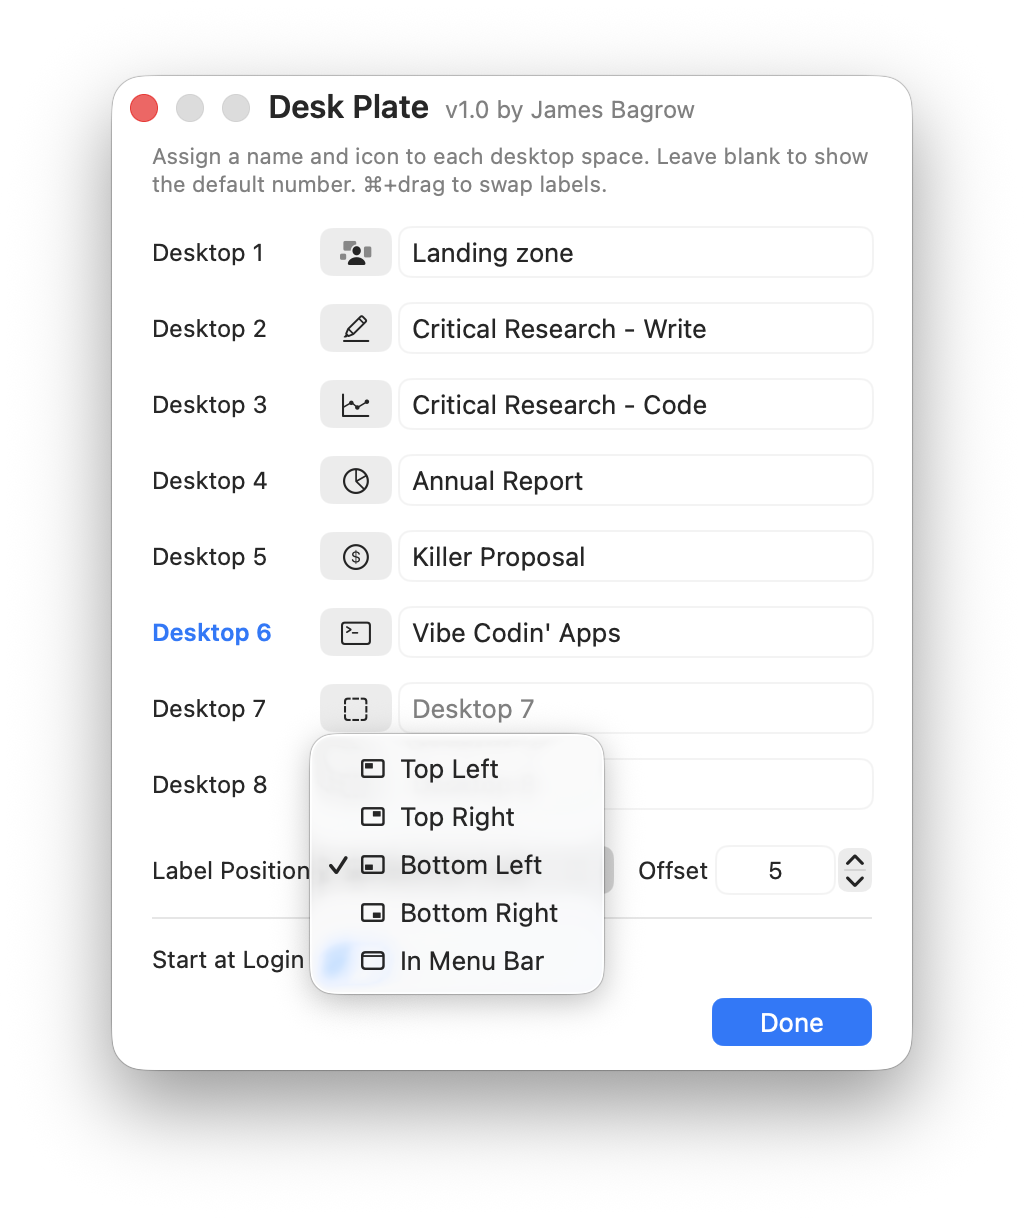
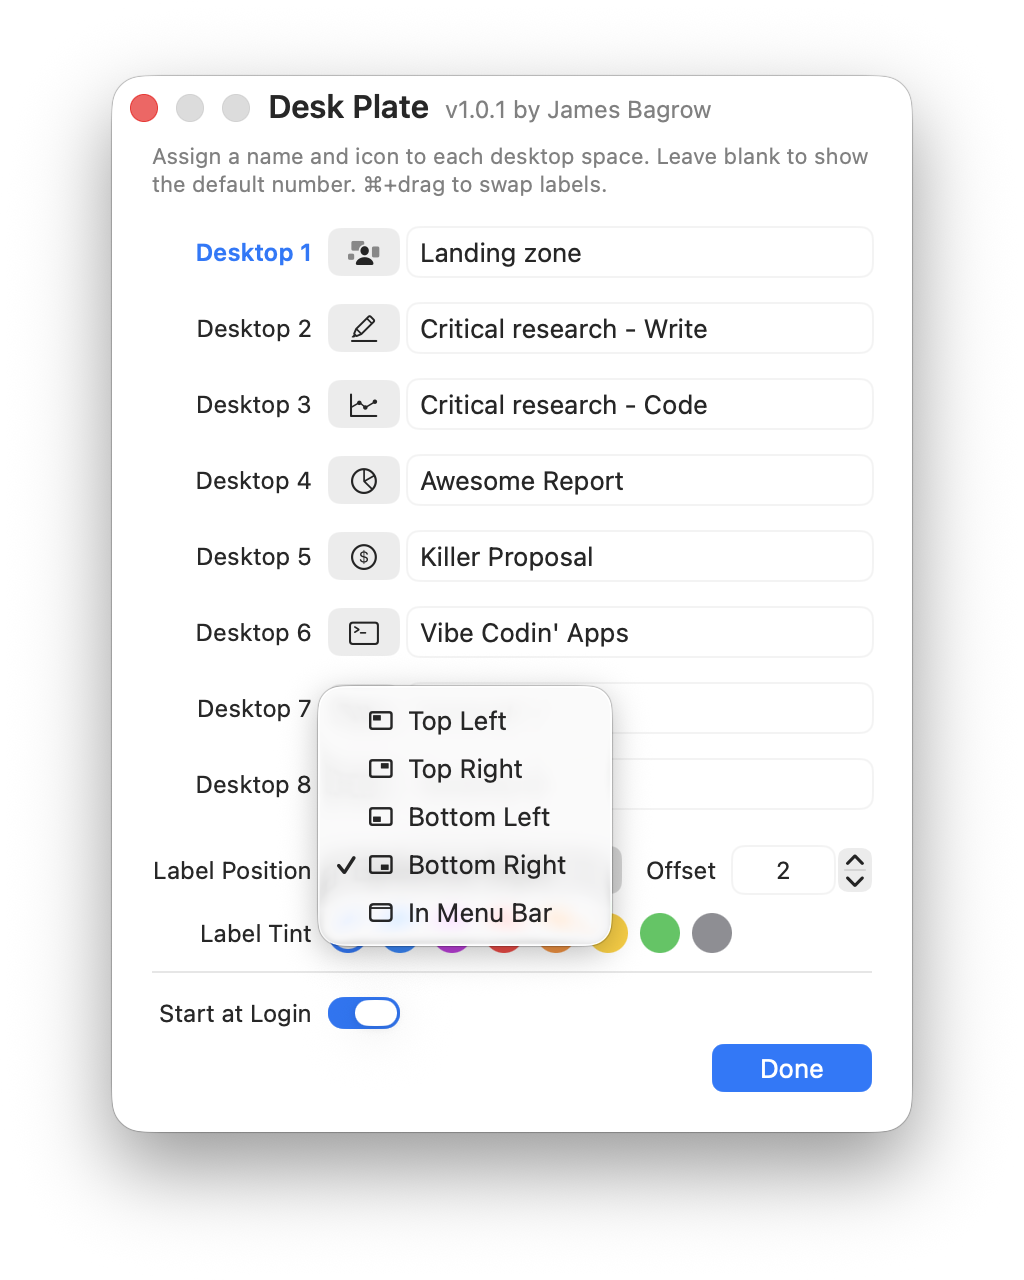
Add overlay color tint selector and improve preferences layout
Add a Label Tint preference with a row of colored circle buttons
(clear, blue, purple, red, orange, yellow, green, gray) that apply
a semi-transparent tint over the glass overlay capsule.

Also update the preferences window to follow macOS HIG conventions:
right-aligned labels, 8pt label-to-control gaps, and adjusted margins.

Bump version to 1.0.1.

diff --git a/DeskPlate/PreferencesViewController.swift b/DeskPlate/PreferencesViewController.swift
@@ -15,6 +15,9 @@ class PreferencesViewController: NSViewController {
     private var offsetLabel: NSTextField!
     private var offsetField: NSTextField!
     private var offsetStepper: NSStepper!
+    private var colorLabel: NSTextField!
+    private var colorStack: NSStackView!
+    private var colorButtons: [LabelTint: NSButton] = [:]
     private var spaceCount = 8
 
     init(spaceManager: SpaceManager) {
@@ -84,6 +87,7 @@ class PreferencesViewController: NSViewController {
         // Label position
         let posLabel = NSTextField(labelWithString: "Label Position")
         posLabel.font = NSFont.systemFont(ofSize: 12)
+        posLabel.alignment = .right
         posLabel.toolTip = "Where to show the desktop label on screen"
         posLabel.translatesAutoresizingMaskIntoConstraints = false
         view.addSubview(posLabel)
@@ -139,14 +143,69 @@ class PreferencesViewController: NSViewController {
         stepper.action = #selector(stepperChanged(_:))
         view.addSubview(stepper)
 
-        let hideOffset = spaceManager.labelPosition == .inMenubar
-        offsetLabel.isHidden = hideOffset
-        offsetField.isHidden = hideOffset
-        offsetStepper.isHidden = hideOffset
+        let hideOverlay = spaceManager.labelPosition == .inMenubar
+        offsetLabel.isHidden = hideOverlay
+        offsetField.isHidden = hideOverlay
+        offsetStepper.isHidden = hideOverlay
+
+        // Label Tint
+        colorLabel = NSTextField(labelWithString: "Label Tint")
+        colorLabel.font = NSFont.systemFont(ofSize: 12)
+        colorLabel.alignment = .right
+        colorLabel.toolTip = "Tint color for the desktop label overlay"
+        colorLabel.translatesAutoresizingMaskIntoConstraints = false
+        view.addSubview(colorLabel)
+
+        colorStack = NSStackView()
+        colorStack.orientation = .horizontal
+        colorStack.spacing = 6
+        colorStack.translatesAutoresizingMaskIntoConstraints = false
+        view.addSubview(colorStack)
+
+        for tint in LabelTint.allCases {
+            let btn = NSButton(frame: NSRect(x: 0, y: 0, width: 20, height: 20))
+            btn.title = ""
+            btn.bezelStyle = .recessed
+            btn.isBordered = false
+            btn.wantsLayer = true
+            btn.layer?.cornerRadius = 10
+            btn.layer?.masksToBounds = true
+            btn.translatesAutoresizingMaskIntoConstraints = false
+            btn.toolTip = tint == .clear ? "Clear (default)" : tint.displayName
+            btn.target = self
+            btn.action = #selector(colorButtonClicked(_:))
+
+            if tint == .clear {
+                // Draw a "no color" circle: light gray with a diagonal line
+                btn.layer?.backgroundColor = NSColor.quaternaryLabelColor.cgColor
+                btn.layer?.borderWidth = 1
+                btn.layer?.borderColor = NSColor.tertiaryLabelColor.cgColor
+            } else {
+                btn.layer?.backgroundColor = tint.nsColor.cgColor
+            }
+
+            // Selection indicator
+            if tint == spaceManager.labelTint {
+                btn.layer?.borderWidth = 2
+                btn.layer?.borderColor = NSColor.controlAccentColor.cgColor
+            }
+
+            NSLayoutConstraint.activate([
+                btn.widthAnchor.constraint(equalToConstant: 20),
+                btn.heightAnchor.constraint(equalToConstant: 20),
+            ])
+
+            colorButtons[tint] = btn
+            colorStack.addArrangedSubview(btn)
+        }
+
+        colorLabel.isHidden = hideOverlay
+        colorStack.isHidden = hideOverlay
 
         // Start at Login
         let loginLabel = NSTextField(labelWithString: "Start at Login")
         loginLabel.font = NSFont.systemFont(ofSize: 12)
+        loginLabel.alignment = .right
         loginLabel.toolTip = "Automatically launch Desk Plate when you log in"
         loginLabel.translatesAutoresizingMaskIntoConstraints = false
         view.addSubview(loginLabel)
@@ -189,16 +248,18 @@ class PreferencesViewController: NSViewController {
             stackView.leadingAnchor.constraint(equalTo: view.leadingAnchor, constant: 20),
             stackView.trailingAnchor.constraint(equalTo: view.trailingAnchor, constant: -20),
 
-            posLabel.leadingAnchor.constraint(equalTo: view.leadingAnchor, constant: 20),
+            posLabel.leadingAnchor.constraint(greaterThanOrEqualTo: view.leadingAnchor, constant: 8),
+            posLabel.trailingAnchor.constraint(equalTo: stackView.leadingAnchor, constant: 80),
             posLabel.centerYAnchor.constraint(equalTo: posPopup.centerYAnchor),
 
-            posPopup.leadingAnchor.constraint(equalTo: stackView.leadingAnchor, constant: 84),
+            posPopup.leadingAnchor.constraint(equalTo: stackView.leadingAnchor, constant: 88),
             posPopup.topAnchor.constraint(equalTo: stackView.bottomAnchor, constant: 16),
 
             offsetLabel.leadingAnchor.constraint(equalTo: posPopup.trailingAnchor, constant: 12),
             offsetLabel.centerYAnchor.constraint(equalTo: posPopup.centerYAnchor),
 
-            offsetField.leadingAnchor.constraint(equalTo: offsetLabel.trailingAnchor, constant: 4),
+            offsetField.leadingAnchor.constraint(equalTo: offsetLabel.trailingAnchor, constant: 8),
+            offsetField.widthAnchor.constraint(greaterThanOrEqualToConstant: 40),
             offsetField.centerYAnchor.constraint(equalTo: posPopup.centerYAnchor),
 
             stepper.trailingAnchor.constraint(equalTo: view.trailingAnchor, constant: -20),
@@ -206,18 +267,26 @@ class PreferencesViewController: NSViewController {
 
             offsetField.trailingAnchor.constraint(equalTo: stepper.leadingAnchor, constant: -2),
 
-            divider.topAnchor.constraint(equalTo: posPopup.bottomAnchor, constant: 12),
+            colorLabel.leadingAnchor.constraint(greaterThanOrEqualTo: view.leadingAnchor, constant: 8),
+            colorLabel.trailingAnchor.constraint(equalTo: stackView.leadingAnchor, constant: 80),
+            colorLabel.topAnchor.constraint(equalTo: posPopup.bottomAnchor, constant: 12),
+
+            colorStack.leadingAnchor.constraint(equalTo: stackView.leadingAnchor, constant: 88),
+            colorStack.centerYAnchor.constraint(equalTo: colorLabel.centerYAnchor),
+
+            divider.topAnchor.constraint(equalTo: colorLabel.bottomAnchor, constant: 12),
             divider.leadingAnchor.constraint(equalTo: view.leadingAnchor, constant: 20),
             divider.trailingAnchor.constraint(equalTo: view.trailingAnchor, constant: -20),
 
             loginLabel.topAnchor.constraint(equalTo: divider.bottomAnchor, constant: 12),
-            loginLabel.leadingAnchor.constraint(equalTo: view.leadingAnchor, constant: 20),
+            loginLabel.leadingAnchor.constraint(greaterThanOrEqualTo: view.leadingAnchor, constant: 8),
+            loginLabel.trailingAnchor.constraint(equalTo: stackView.leadingAnchor, constant: 80),
 
             loginToggle.centerYAnchor.constraint(equalTo: loginLabel.centerYAnchor),
-            loginToggle.leadingAnchor.constraint(equalTo: stackView.leadingAnchor, constant: 84),
+            loginToggle.leadingAnchor.constraint(equalTo: stackView.leadingAnchor, constant: 88),
 
-            doneBtn.topAnchor.constraint(equalTo: loginLabel.bottomAnchor, constant: 12),
-            doneBtn.bottomAnchor.constraint(equalTo: view.bottomAnchor, constant: -12),
+            doneBtn.topAnchor.constraint(equalTo: loginLabel.bottomAnchor, constant: 8),
+            doneBtn.bottomAnchor.constraint(equalTo: view.bottomAnchor, constant: -20),
             doneBtn.trailingAnchor.constraint(equalTo: view.trailingAnchor, constant: -20),
             doneBtn.widthAnchor.constraint(equalToConstant: 80),
         ])
@@ -230,6 +299,7 @@ class PreferencesViewController: NSViewController {
 
         let indexLabel = NSTextField(labelWithString: String(format: "Desktop %d", index + 1))
         indexLabel.font = NSFont.systemFont(ofSize: 12)
+        indexLabel.alignment = .right
         indexLabel.translatesAutoresizingMaskIntoConstraints = false
         indexLabel.setContentHuggingPriority(.required, for: .horizontal)
 
@@ -276,7 +346,7 @@ class PreferencesViewController: NSViewController {
             indexLabel.centerYAnchor.constraint(equalTo: row.centerYAnchor),
             indexLabel.widthAnchor.constraint(equalToConstant: 80),
 
-            iconBtn.leadingAnchor.constraint(equalTo: indexLabel.trailingAnchor, constant: 4),
+            iconBtn.leadingAnchor.constraint(equalTo: indexLabel.trailingAnchor, constant: 8),
             iconBtn.centerYAnchor.constraint(equalTo: row.centerYAnchor),
             iconBtn.widthAnchor.constraint(equalToConstant: 36),
             iconBtn.heightAnchor.constraint(equalToConstant: 28),
@@ -338,6 +408,27 @@ class PreferencesViewController: NSViewController {
         offsetLabel.isHidden = hide
         offsetField.isHidden = hide
         offsetStepper.isHidden = hide
+        colorLabel.isHidden = hide
+        colorStack.isHidden = hide
+    }
+
+    @objc private func colorButtonClicked(_ sender: NSButton) {
+        guard let tint = colorButtons.first(where: { $0.value === sender })?.key else { return }
+        spaceManager.labelTint = tint
+
+        // Update selection indicators
+        for (t, btn) in colorButtons {
+            if t == tint {
+                btn.layer?.borderWidth = 2
+                btn.layer?.borderColor = NSColor.controlAccentColor.cgColor
+            } else if t == .clear {
+                btn.layer?.borderWidth = 1
+                btn.layer?.borderColor = NSColor.tertiaryLabelColor.cgColor
+            } else {
+                btn.layer?.borderWidth = 0
+                btn.layer?.borderColor = nil
+            }
+        }
     }
 
     @objc private func stepperChanged(_ sender: NSStepper) {

diff --git a/DeskPlate/SpaceManager.swift b/DeskPlate/SpaceManager.swift
@@ -1,4 +1,5 @@
 import Cocoa
+import SwiftUI
 
 // MARK: - Position enum
 
@@ -22,6 +23,51 @@ enum LabelPosition: String, CaseIterable, Codable {
         case .bottomLeft: return "rectangle.inset.bottomleft.filled"
         case .bottomRight: return "rectangle.inset.bottomright.filled"
         case .inMenubar: return "menubar.rectangle"
+        }
+    }
+}
+
+// MARK: - Tint enum
+
+enum LabelTint: String, CaseIterable, Codable {
+    case clear, blue, purple, red, orange, yellow, green, gray
+
+    var displayName: String {
+        switch self {
+        case .clear:  return "Clear"
+        case .blue:   return "Blue"
+        case .purple: return "Purple"
+        case .red:    return "Red"
+        case .orange: return "Orange"
+        case .yellow: return "Yellow"
+        case .green:  return "Green"
+        case .gray:   return "Gray"
+        }
+    }
+
+    var swiftUIColor: Color? {
+        switch self {
+        case .clear:  return nil
+        case .blue:   return .blue
+        case .purple: return .purple
+        case .red:    return .red
+        case .orange: return .orange
+        case .yellow: return .yellow
+        case .green:  return .green
+        case .gray:   return .gray
+        }
+    }
+
+    var nsColor: NSColor {
+        switch self {
+        case .clear:  return .clear
+        case .blue:   return .systemBlue
+        case .purple: return .systemPurple
+        case .red:    return .systemRed
+        case .orange: return .systemOrange
+        case .yellow: return .systemYellow
+        case .green:  return .systemGreen
+        case .gray:   return .systemGray
         }
     }
 }
@@ -58,6 +104,14 @@ class SpaceManager: NSObject {
         }
     }
 
+    var labelTint: LabelTint = .clear {
+        didSet {
+            UserDefaults.standard.set(labelTint.rawValue, forKey: "labelTint")
+            overlayWindow?.tintColor = labelTint.swiftUIColor
+            updateOverlay()
+        }
+    }
+
     var labelMargin: CGFloat = 0 {
         didSet {
             UserDefaults.standard.set(Double(labelMargin), forKey: "labelMargin")
@@ -78,6 +132,10 @@ class SpaceManager: NSObject {
             labelPosition = pos
         }
         labelMargin = CGFloat(UserDefaults.standard.double(forKey: "labelMargin"))
+        if let tintStr = UserDefaults.standard.string(forKey: "labelTint"),
+           let tint = LabelTint(rawValue: tintStr) {
+            labelTint = tint
+        }
         suppressDidSet = false
     }
 
@@ -93,6 +151,7 @@ class SpaceManager: NSObject {
         // Create the overlay window
         overlayWindow = LabelWindow(position: labelPosition)
         overlayWindow?.margin = labelMargin
+        overlayWindow?.tintColor = labelTint.swiftUIColor
 
         // Listen for space changes
         NSWorkspace.shared.notificationCenter.addObserver(

diff --git a/DeskPlate/LabelWindow.swift b/DeskPlate/LabelWindow.swift
@@ -6,6 +6,7 @@ import SwiftUI
 struct GlassLabelView: View {
     let text: String
     let iconName: String?
+    var tintColor: Color?
 
     var body: some View {
         GlassEffectContainer {
@@ -19,6 +20,11 @@ struct GlassLabelView: View {
             }
             .padding(.horizontal, 16)
             .padding(.vertical, 8)
+            .background {
+                if let tintColor {
+                    Capsule().fill(tintColor.opacity(0.3))
+                }
+            }
             .glassEffect(.clear, in: .capsule)
         }
     }
@@ -30,6 +36,7 @@ class LabelWindow: NSPanel {
     private var currentPosition: LabelPosition
     private var hostingView: NSHostingView<GlassLabelView>!
     var margin: CGFloat = 0
+    var tintColor: Color?
     private var refreshTimer: Timer?
 
     init(position: LabelPosition) {
@@ -76,7 +83,7 @@ class LabelWindow: NSPanel {
     }
 
     func show(label: String, icon: String? = nil) {
-        hostingView.rootView = GlassLabelView(text: label, iconName: icon)
+        hostingView.rootView = GlassLabelView(text: label, iconName: icon, tintColor: tintColor)
         sizeToFit()
         orderFront(nil)
         if refreshTimer == nil { startRefresh() }
